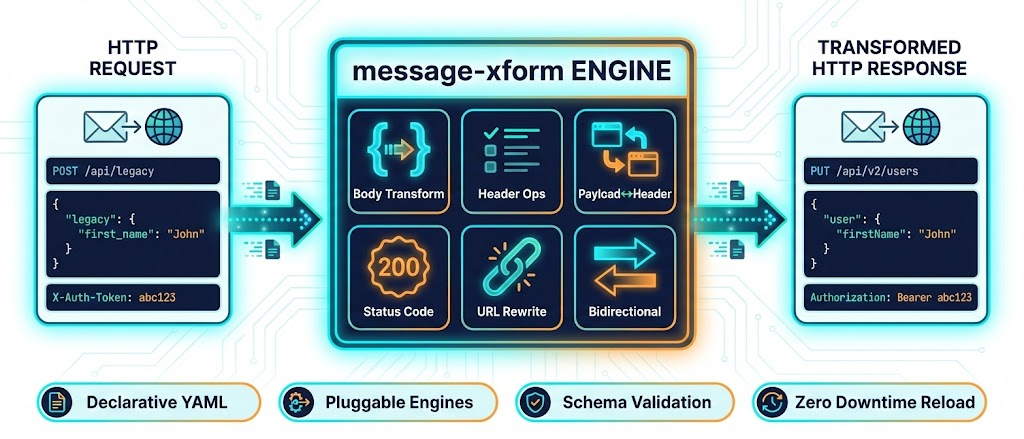
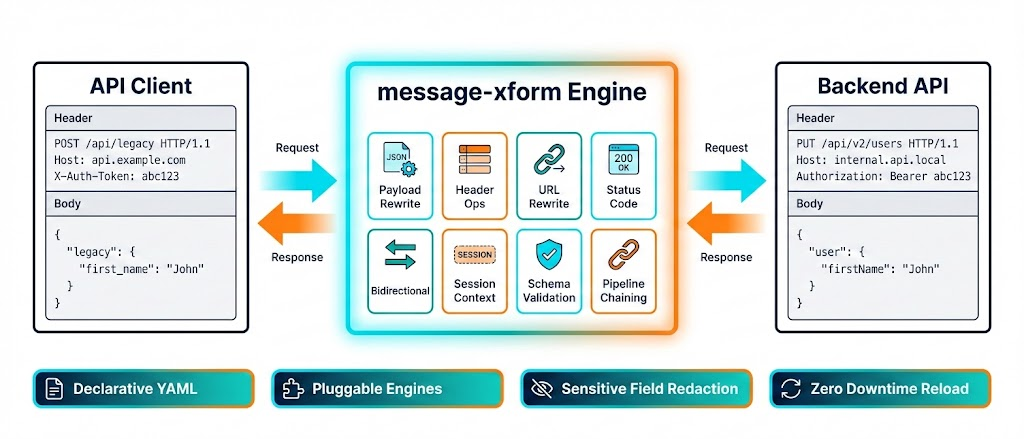
docs: overhaul README and image assets
README:
- Remove tier numbering from gateway table (internal jargon)
- Remove numbered mode headers (Standalone Reverse Proxy / Gateway Plugin)
- Add Use Cases section (legacy migration, API versioning, polymorphic
  endpoint rectification, header-based routing enrichment)
- Fix capability count ('every layer' instead of 'four dimensions')
- Cap image width at 720px (no more full-width stretch)
- Remove Project Structure section

Images:
- Split architecture-overview into standalone-proxy.png + gateway-plugin.png
- Rename README.md to image-prompts.md
- Update all prompts: pure white backgrounds, no patterns, bidirectional
  arrows, Session Context + Pipeline Chaining capabilities, API Client /
  Backend API labels, Sensitive Field Redaction badge

diff --git a/docs/images/image-prompts.md b/docs/images/image-prompts.md
@@ -1,18 +1,19 @@
-# Image Assets
+# Image Generation Prompts
 
 Generated infographics for the project README. Each image has its generation
 prompt stored below so it can be regenerated or refined.
+
+---
 
 ## standalone-proxy.png
 
 **Generator:** Gemini (image generation)
 **Created:** 2026-02-15
-**Replaces:** Left half of `architecture-overview.png`
 
 ### Prompt
 
 ```
-Technical infographic for an open-source project called "message-xform" — the STANDALONE REVERSE PROXY deployment mode. Clean, modern developer infographic on a white/light gray background with dark navy text and vibrant cyan, orange, and green accents.
+Technical infographic for an open-source project called "message-xform" — the STANDALONE REVERSE PROXY deployment mode. Clean, modern developer infographic on a PURE WHITE background with dark navy text and vibrant cyan, orange, and green accents. Do NOT use a dark background.
 
 A horizontal flow from left to right:
 
@@ -30,7 +31,7 @@ At the bottom: Feature badges in rounded pills: "YAML Config" · "Env Var Overri
 
 Do NOT render any layout metadata text like "left", "right", "center", "row 1", "row 2", "top", or "bottom" as visible labels in the image. These are placement instructions only.
 
-Style: Clean flat vector illustration, subtle grid pattern background, no photorealism, high contrast dark text on light background, professional GitHub README quality. Wide aspect ratio 16:7.
+Style: Clean flat vector illustration, pure white background with no patterns, no photorealism, high contrast dark text on white background, professional GitHub README quality. Wide aspect ratio 16:7.
 ```
 
 ---
@@ -39,12 +40,11 @@ Style: Clean flat vector illustration, subtle grid pattern background, no photor
 
 **Generator:** Gemini (image generation)
 **Created:** 2026-02-15
-**Replaces:** Right half of `architecture-overview.png`
 
 ### Prompt
 
 ```
-Technical infographic for an open-source project called "message-xform" — the GATEWAY PLUGIN deployment mode. Clean, modern developer infographic on a white/light gray background with dark navy text and vibrant cyan, orange, and green accents.
+Technical infographic for an open-source project called "message-xform" — the GATEWAY PLUGIN deployment mode. Clean, modern developer infographic on a PURE WHITE background with dark navy text and vibrant cyan, orange, and green accents. Do NOT use a dark background.
 
 A horizontal flow from left to right:
 
@@ -66,7 +66,7 @@ At the bottom: Feature badges in rounded pills: "Native JVM Plugin" · "Shadow J
 
 Do NOT render any layout metadata text like "left", "right", "center", "top", or "bottom" as visible labels in the image. These are placement instructions only.
 
-Style: Clean flat vector illustration, subtle grid pattern background, no photorealism, high contrast dark text on light background, professional GitHub README quality. Wide aspect ratio 16:7.
+Style: Clean flat vector illustration, pure white background with no patterns, no photorealism, high contrast dark text on white background, professional GitHub README quality. Wide aspect ratio 16:7.
 ```
 
 ---
@@ -79,38 +79,38 @@ Style: Clean flat vector illustration, subtle grid pattern background, no photor
 ### Prompt
 
 ```
-Technical infographic showing HTTP message transformation pipeline for "message-xform". White/light gray background with dark navy text and vibrant cyan, teal, and orange accents.
+Technical infographic showing the HTTP message transformation pipeline for "message-xform". PURE WHITE background with dark navy text and vibrant cyan, teal, and orange accents. Do NOT use a dark background.
 
-A horizontal flow from left to right:
+A horizontal layout with three boxes and BIDIRECTIONAL arrows (double-headed or opposing arrow pairs) between them:
 
-An HTTP request box showing:
+Left: "API Client" box showing an example HTTP message:
 - "POST /api/legacy" as the request line
 - JSON body snippet: { "legacy": { "first_name": "John" } }
 - Headers: "X-Auth-Token: abc123"
 
-Then an arrow flowing into a large glowing transformation engine box with six capability cards arranged in 2 rows of 3:
-"Payload Rewrite" with JSON curly braces icon, "Header Ops" with list icon, "Payload↔Header" with swap arrows icon, "Status Code" with numbered badge icon, "URL Rewrite" with link chain icon, "Bidirectional" with two-way arrow icon
+Center: A large glowing "message-xform Engine" box with capability cards arranged in a compact grid (2 rows of 4):
+"Payload Rewrite" · "Header Ops" · "URL Rewrite" · "Status Code"
+"Bidirectional" · "Session Context" · "Schema Validation" · "Pipeline Chaining"
 
-Then an arrow flowing out to a transformed HTTP response box showing:
+Right: "Backend API" box showing the transformed HTTP message:
 - "PUT /api/v2/users" as the request line
 - JSON body snippet: { "user": { "firstName": "John" } }
 - Headers: "Authorization: Bearer abc123"
 
-The arrows between the boxes should be stylized dotted or dashed cyan lines suggesting data flow.
+The arrows MUST be bidirectional — showing requests flowing right AND responses flowing left through the engine.
 
-A strip of feature badges at the bottom in rounded pills: "Declarative YAML" · "Pluggable Engines" · "Schema Validation" · "Zero Downtime Reload"
+Bottom strip of feature badges in rounded pills: "Declarative YAML" · "Pluggable Engines" · "Sensitive Field Redaction" · "Zero Downtime Reload"
 
-Do NOT render any layout metadata text like "left", "right", "center", "input", "output", "row 1", "row 2" as visible labels in the image. These are placement instructions only.
+Do NOT render any layout metadata text as visible labels in the image. These are placement instructions only.
 
-Style: Clean flat vector illustration, professional technical documentation quality, wide 16:7 aspect ratio, high contrast dark text on light background, subtle circuit board trace pattern in background.
+Style: Clean flat vector illustration, professional technical documentation quality, wide 16:7 aspect ratio, high contrast dark text on pure white background, no background patterns.
 ```
 
 ---
 
 ## architecture-overview.png (DEPRECATED)
 
-**Status:** Replaced by `standalone-proxy.png` + `gateway-plugin.png`
 **Created:** 2026-02-09
 
 Original combined image showing both deployment modes side by side.
-Kept for reference until the new images are generated and placed.
+Replaced by `standalone-proxy.png` + `gateway-plugin.png`.

diff --git a/README.md b/README.md
@@ -18,7 +18,7 @@ message-xform is a **gateway-agnostic transformation engine** that rewrites HTTP
 ### 🔀 Standalone Reverse Proxy
 
 <p align="center">
-  <img src="docs/images/standalone-proxy.png" alt="message-xform standalone reverse proxy — API client to proxy to backend API" width="100%">
+  <img src="docs/images/standalone-proxy.png" alt="message-xform standalone reverse proxy — API client to proxy to backend API" width="720">
 </p>
 
 Run message-xform as an **independent HTTP proxy** with zero external dependencies. Ideal for:
@@ -48,7 +48,7 @@ java -jar message-xform-proxy.jar
 ### 🔌 Gateway Plugin
 
 <p align="center">
-  <img src="docs/images/gateway-plugin.png" alt="message-xform gateway plugin — API client to gateway with embedded engine to backend API" width="100%">
+  <img src="docs/images/gateway-plugin.png" alt="message-xform gateway plugin — API client to gateway with embedded engine to backend API" width="720">
 </p>
 
 Embed message-xform **directly into your existing API gateway** as a native plugin, rule, or filter. The core engine runs inside the gateway's JVM — no network hop, no sidecar overhead.
@@ -59,24 +59,24 @@ Embed message-xform **directly into your existing API gateway** as a native plug
 |---------|-------------------|--------|
 | **Standalone Proxy** | Embedded HTTP proxy (Javalin/Jetty) | ✅ Complete |
 | **PingAccess** | Java plugin via `AsyncRuleInterceptor` SPI | ✅ Complete |
-| **PingGateway** | Java/Groovy filter chain | 🔲 Planned (Tier 2) |
-| **WSO2 API Manager** | Java extension API | 🔲 Planned (Tier 3) |
-| **Apache APISIX** | Java Plugin Runner | 🔲 Planned (Tier 3) |
-| **Kong** | Sidecar proxy (Lua ecosystem) | 🔲 Planned (Tier 4) |
-| **NGINX** | Sidecar proxy (njs/C ecosystem) | 🔲 Planned (Tier 4) |
+| **PingGateway** | Java/Groovy filter chain | 🔲 Planned |
+| **WSO2 API Manager** | Java extension API | 🔲 Planned |
+| **Apache APISIX** | Java Plugin Runner | 🔲 Planned |
+| **Kong** | Sidecar proxy (Lua ecosystem) | 🔲 Planned |
+| **NGINX** | Sidecar proxy (njs/C ecosystem) | 🔲 Planned |
 
-> **Tier 1–3** gateways support **direct Java integration** — the core engine runs natively inside the gateway.
-> **Tier 4** gateways use a **sidecar pattern** — the standalone proxy runs alongside the gateway, which proxies through it.
+> Gateways with a **Java runtime** support direct JVM integration — the core engine runs natively inside the gateway.
+> Non-Java gateways use a **sidecar pattern** — the standalone proxy runs alongside the gateway, which proxies through it.
 
 ---
 
 ## What Can It Transform?
 
 <p align="center">
-  <img src="docs/images/transform-pipeline.png" alt="message-xform transformation pipeline — body, headers, status, URL rewriting" width="100%">
+  <img src="docs/images/transform-pipeline.png" alt="message-xform transformation pipeline — body, headers, status, URL rewriting" width="720">
 </p>
 
-message-xform operates on **four dimensions** of an HTTP message:
+message-xform operates on **every layer** of an HTTP message:
 
 ### 📦 JSON Body Transformation
 
@@ -166,6 +166,15 @@ transform:
       "payload": .
     }
 ```
+
+---
+
+## Use Cases
+
+- **Legacy API migration** — rename fields, restructure nested objects, and map between old and new schemas without touching backend code
+- **API versioning** — transform v1 payloads to v2 format (and back) using bidirectional specs, enabling gradual client migration
+- **Polymorphic endpoint rectification** — decompose dispatch-style endpoints (`POST /api?action=delete`) into RESTful resources (`DELETE /api/users/{id}`) via URL rewriting and method mapping
+- **Header-based routing enrichment** — promote payload fields to headers (e.g., extract a tenant ID from the body into `X-Tenant-ID`) for downstream routing decisions
 
 ---
 
@@ -267,34 +276,6 @@ cp adapter-pingaccess/build/libs/adapter-pingaccess-*-all.jar \
 ```
 
 ---
-
-## Project Structure
-
-```
-message-xform/
-├── core/                    # Gateway-agnostic transformation engine
-│   ├── model/               # TransformSpec, TransformProfile, Message
-│   ├── engine/              # TransformEngine, TransformRegistry
-│   ├── spi/                 # ExpressionEngine, TelemetryListener
-│   └── schema/              # JSON Schema validation
-├── adapter-standalone/      # Standalone HTTP reverse proxy
-│   ├── adapter/             # GatewayAdapter SPI implementation
-│   ├── proxy/               # ProxyHandler, UpstreamClient, FileWatcher
-│   ├── config/              # YAML config loader with env var overlay
-│   └── tls/                 # TLS/mTLS configuration
-├── adapter-pingaccess/      # PingAccess 9.0 gateway plugin
-│   ├── adapter/             # GatewayAdapter + RuleInterceptor SPI
-│   ├── config/              # Plugin descriptor + SnakeYAML config
-│   └── metrics/             # JMX MBean metrics (optional)
-├── e2e-pingaccess/          # End-to-end Karate tests against live PA
-│   ├── docker-compose.yml   # PA + echo backend + mock OAuth2
-│   └── src/test/            # Karate feature files (31 scenarios)
-├── docs/                    # Specifications, ADRs, research
-│   ├── architecture/        # Feature specs, roadmap, terminology
-│   ├── decisions/           # Architecture Decision Records (36 ADRs)
-│   └── operations/          # Deployment and operations guides
-└── Dockerfile               # Multi-stage build (~100 MB image)
-```
 
 ## Tech Stack
 
